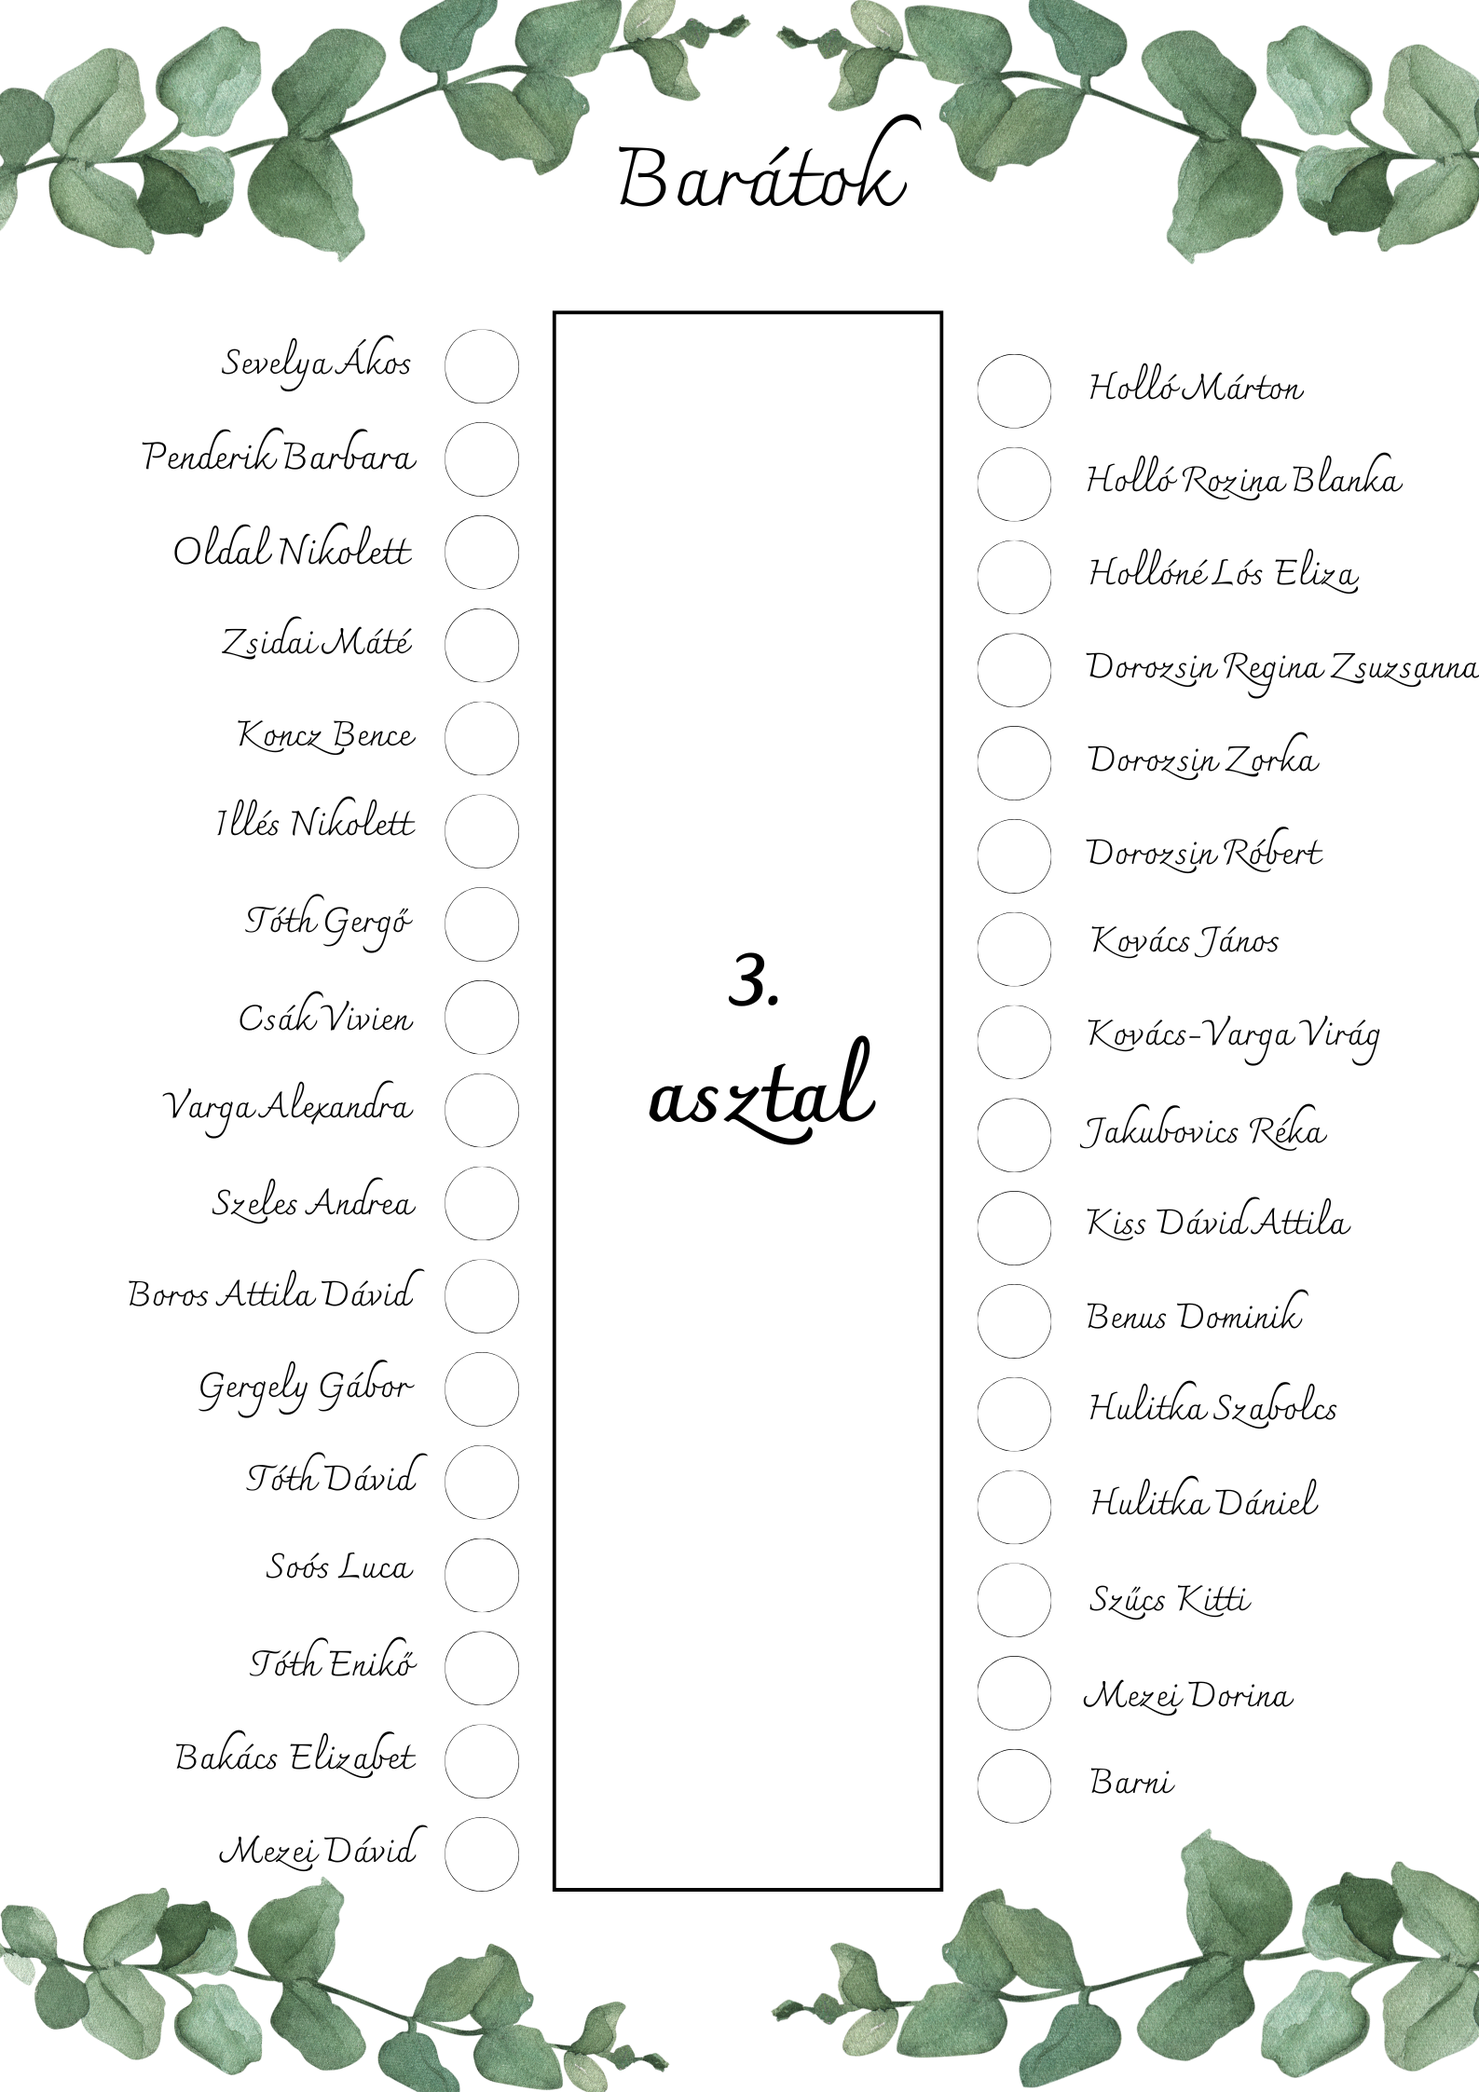
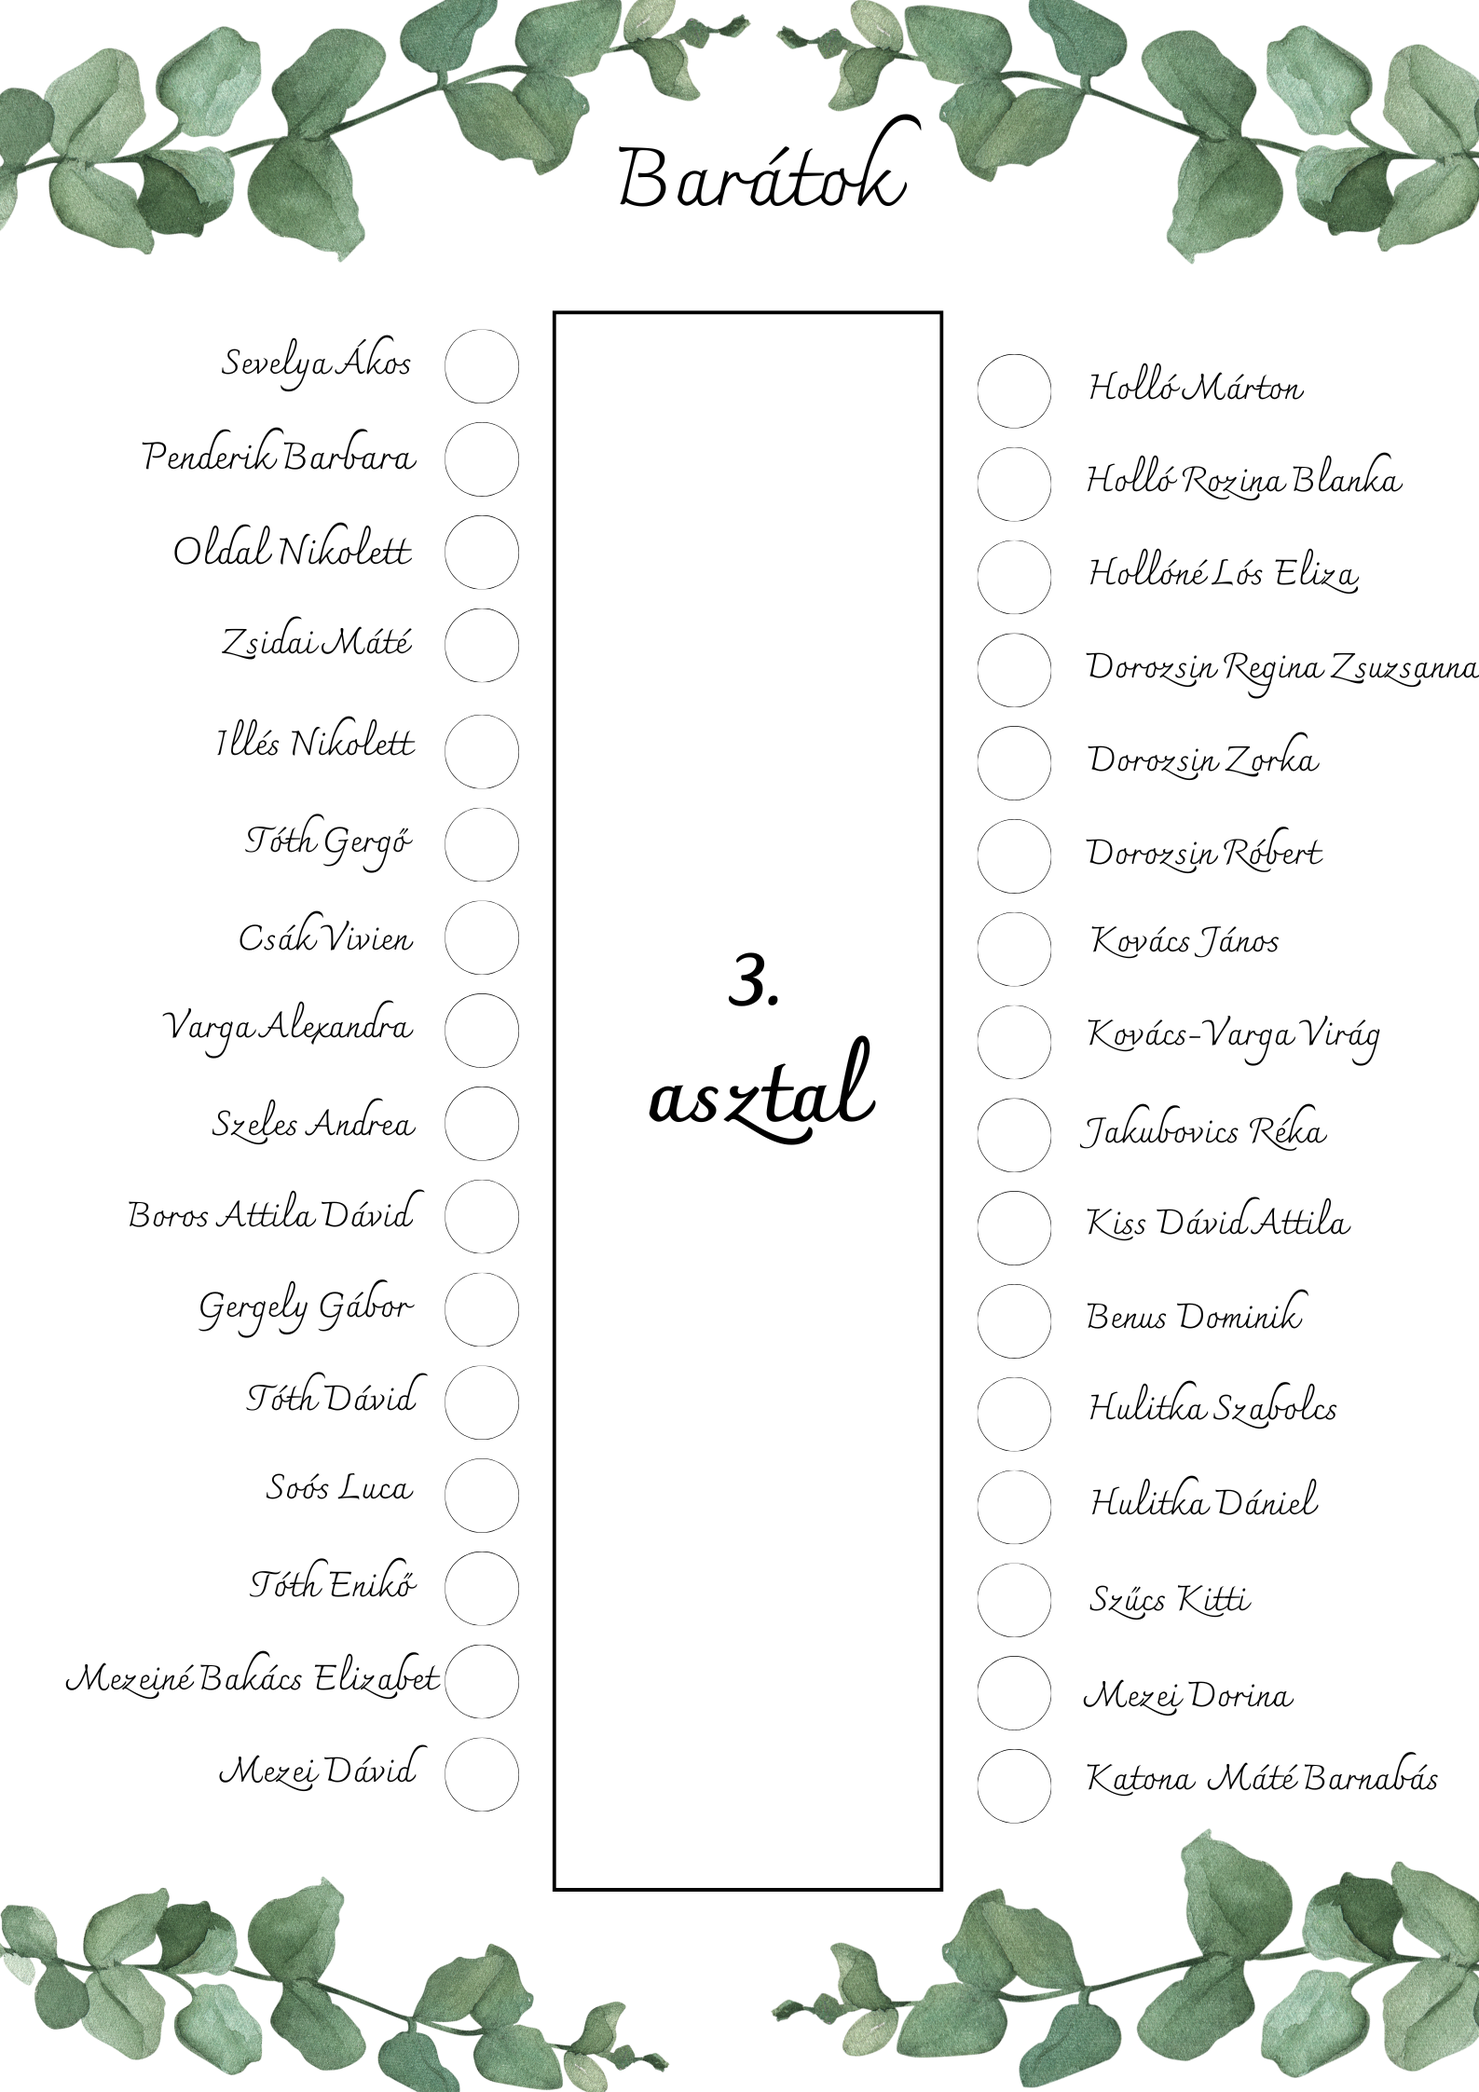
javítás

diff --git a/script.js b/script.js
@@ -507,20 +507,20 @@ let people = [
     {seatNo: 10, Name: "Sőregi Angéla",                 table: "groom"},
     {seatNo: 11, Name: "Zenész",                        table: "groom"},
     {seatNo: 12, Name: "Zenész",                        table: "groom"},
-    {seatNo: 13, Name: "Torákné Kovács Krisztina",      table: "groom"},
-    {seatNo: 14, Name: "Torák Vencel Lőrinc",           table: "groom"},
-    {seatNo: 15, Name: "Torák Lőrinc",                  table: "groom"},
-    {seatNo: 16, Name: "Torákné Gyurcsik Ildikó",       table: "groom"},
-    {seatNo: 17, Name: "Torák Pál",                     table: "groom"},
-    {seatNo: 18, Name: "Mezei Krisztián",               table: "groom"},
-    {seatNo: 19, Name: "Mezei Krisztiánné",             table: "groom"},
-    {seatNo: 20, Name: "Tóthné Kovács Noémi",           table: "groom"},
-    {seatNo: 21, Name: "Tóth József",                   table: "groom"},
-    {seatNo: 22, Name: "Vékony Csaba",                  table: "groom"},
-    {seatNo: 23, Name: "Vékonyné Gecse Mariann",        table: "groom"},
-    {seatNo: 24, Name: "Vékony Kiara",                  table: "groom"},
-    {seatNo: 25, Name: "Hemző László vőfély",           table: "groom"},
-    {seatNo: 26, Name: "Áron atya",                     table: "groom"},
+    {seatNo: 13, Name: "Áron atya",                     table: "groom"},
+    {seatNo: 14, Name: "Torákné Kovács Krisztina",      table: "groom"},
+    {seatNo: 15, Name: "Torák Vencel Lőrinc",           table: "groom"},
+    {seatNo: 16, Name: "Torák Lőrinc",                  table: "groom"},
+    {seatNo: 17, Name: "Torákné Gyurcsik Ildikó",       table: "groom"},
+    {seatNo: 18, Name: "Torák Pál",                     table: "groom"},
+    {seatNo: 19, Name: "Mezei Krisztián",               table: "groom"},
+    {seatNo: 20, Name: "Mezei Krisztiánné",             table: "groom"},
+    {seatNo: 21, Name: "Tóthné Kovács Noémi",           table: "groom"},
+    {seatNo: 22, Name: "Tóth József",                   table: "groom"},
+    {seatNo: 23, Name: "Vékony Csaba",                  table: "groom"},
+    {seatNo: 24, Name: "Vékony Gecse Mariann",          table: "groom"},
+    {seatNo: 25, Name: "Vékony Kiara",                  table: "groom"},
+    {seatNo: 26, Name: "Hemző László vőfély",           table: "groom"},
     {seatNo: 27, Name: "Keresztapa",                    table: "bride"},
     {seatNo: 28, Name: "Keresztanya",                   table: "bride"},
     {seatNo: 29, Name: "Verebélyiné Gáspár Zita",       table: "bride"},
@@ -533,52 +533,53 @@ let people = [
     {seatNo: 36, Name: "Palánki Benedek",               table: "bride"},
     {seatNo: 37, Name: "Palánki Gréta",                 table: "bride"},
     {seatNo: 38, Name: "Palánki Zsoltné",               table: "bride"},
-    {seatNo: 39, Name: "Verebélyiné Illés Beáta",       table: "bride"},
-    {seatNo: 40, Name: "Verebélyi Tamás",               table: "bride"},
-    {seatNo: 41, Name: "Verebélyi Botond",              table: "bride"},
-    {seatNo: 42, Name: "Illés András",                  table: "bride"},
-    {seatNo: 43, Name: "Illés Roland",                  table: "bride"},
-    {seatNo: 44, Name: "Illésné Tajti Tímea",           table: "bride"},
-    {seatNo: 45, Name: "Palánki Gáborné",               table: "bride"},
-    {seatNo: 46, Name: "Palánki Edina",                 table: "bride"},
-    {seatNo: 47, Name: "Palánki Petra",                 table: "bride"},
-    {seatNo: 48, Name: "Palánki Gábor",                 table: "bride"},
-    {seatNo: 49, Name: "Palánki Viktorné",              table: "bride"},
-    {seatNo: 50, Name: "Mucsina Józsefné",              table: "bride"},
-    {seatNo: 51, Name: "Mucsina Gabriella",             table: "bride"},
-    {seatNo: 52, Name: "Sevelya Ákos",                  table: "friends"},
-    {seatNo: 53, Name: "Penderik Barbara",              table: "friends"},
-    {seatNo: 54, Name: "Oldal Nikolett",                table: "friends"},
-    {seatNo: 55, Name: "Zsidai Máté",                   table: "friends"},
-    {seatNo: 56, Name: "Koncz Bence",                   table: "friends"},
-    {seatNo: 57, Name: "Illés Nikolett",                table: "friends"},
-    {seatNo: 58, Name: "Tóth Gergő",                    table: "friends"},
-    {seatNo: 59, Name: "Csák Vivien",                   table: "friends"},
-    {seatNo: 60, Name: "Varga Alexandra",               table: "friends"},
-    {seatNo: 61, Name: "Szeles Andrea",                 table: "friends"},
-    {seatNo: 62, Name: "Boros Attila Dávid",            table: "friends"},
-    {seatNo: 63, Name: "Gergely Gábor",                 table: "friends"},
-    {seatNo: 64, Name: "Tóth Dávid",                    table: "friends"},
-    {seatNo: 65, Name: "Soós Luca",                     table: "friends"},
-    {seatNo: 66, Name: "Tóth Enikő",                    table: "friends"},
-    {seatNo: 67, Name: "Mezei Dávid",                   table: "friends"},
-    {seatNo: 68, Name: "Lizi",                          table: "friends"},
-    {seatNo: 69, Name: "Holló Márton",                  table: "friends"},
-    {seatNo: 70, Name: "Holló Rozina Blanka",           table: "friends"},
-    {seatNo: 71, Name: "Hollóné Lós Eliza",             table: "friends"},
-    {seatNo: 72, Name: "Dorozsin Regina Zsuzsanna",     table: "friends"},
-    {seatNo: 73, Name: "Dorozsin Zorka",                table: "friends"},
-    {seatNo: 74, Name: "Dorozsin Róbert",               table: "friends"},
-    {seatNo: 75, Name: "Kovács János",                  table: "friends"},
-    {seatNo: 76, Name: "Kovács-Varga Virág",            table: "friends"},
-    {seatNo: 77, Name: "Jakubovics Réka",               table: "friends"},
-    {seatNo: 78, Name: "Kiss Dávid Attila",             table: "friends"},
-    {seatNo: 79, Name: "Benus Dominik",                 table: "friends"},
-    {seatNo: 80, Name: "Hulitka Szabolcs",              table: "friends"},
-    {seatNo: 81, Name: "Hulitka Dániel",                table: "friends"},
-    {seatNo: 82, Name: "Szűcs Kitti",                   table: "friends"},
-    {seatNo: 83, Name: "Mezei Dorina",                  table: "friends"},
-    {seatNo: 84, Name: "Barni",                         table: "friends"}
+    {seatNo: 39, Name: "Fotós",                         table: "bride"},
+    {seatNo: 40, Name: "Videós",                        table: "bride"},
+    {seatNo: 41, Name: "Verebélyiné Illés Beáta",       table: "bride"},
+    {seatNo: 42, Name: "Verebélyi Tamás",               table: "bride"},
+    {seatNo: 43, Name: "Verebélyi Botond",              table: "bride"},
+    {seatNo: 44, Name: "Illés András",                  table: "bride"},
+    {seatNo: 45, Name: "Illés Roland",                  table: "bride"},
+    {seatNo: 46, Name: "Illésné Tajti Tímea",           table: "bride"},
+    {seatNo: 47, Name: "Palánkiné Kiss Veronika",       table: "bride"},
+    {seatNo: 48, Name: "Palánki Edina",                 table: "bride"},
+    {seatNo: 49, Name: "Palánki Petra",                 table: "bride"},
+    {seatNo: 50, Name: "Palánki Gábor",                 table: "bride"},
+    {seatNo: 51, Name: "Palánki Viktorné",              table: "bride"},
+    {seatNo: 52, Name: "Mucsina Józsefné",              table: "bride"},
+    {seatNo: 53, Name: "Mucsina Gabriella",             table: "bride"},
+    {seatNo: 54, Name: "Sevelya Ákos",                  table: "friends"},
+    {seatNo: 55, Name: "Penderik Barbara",              table: "friends"},
+    {seatNo: 56, Name: "Oldal Nikolett",                table: "friends"},
+    {seatNo: 57, Name: "Zsidai Máté",                   table: "friends"},
+    {seatNo: 58, Name: "Illés Nikolett",                table: "friends"},
+    {seatNo: 59, Name: "Tóth Gergő",                    table: "friends"},
+    {seatNo: 60, Name: "Csák Vivien",                   table: "friends"},
+    {seatNo: 61, Name: "Varga Alexandra",               table: "friends"},
+    {seatNo: 62, Name: "Szeles Andrea",                 table: "friends"},
+    {seatNo: 63, Name: "Boros Attila Dávid",            table: "friends"},
+    {seatNo: 64, Name: "Gergely Gábor",                 table: "friends"},
+    {seatNo: 65, Name: "Tóth Dávid",                    table: "friends"},
+    {seatNo: 66, Name: "Soós Luca",                     table: "friends"},
+    {seatNo: 67, Name: "Tóth Enikő",                    table: "friends"},
+    {seatNo: 68, Name: "Mezeiné Bakács Elizabet",       table: "friends"},
+    {seatNo: 69, Name: "Mezei Dávid",                   table: "friends"},
+    {seatNo: 70, Name: "Holló Márton",                  table: "friends"},
+    {seatNo: 71, Name: "Holló Rozina Blanka",           table: "friends"},
+    {seatNo: 72, Name: "Hollóné Lós Eliza",             table: "friends"},
+    {seatNo: 73, Name: "Dorozsin Regina Zsuzsanna",     table: "friends"},
+    {seatNo: 74, Name: "Dorozsin Zorka",                table: "friends"},
+    {seatNo: 75, Name: "Dorozsin Róbert",               table: "friends"},
+    {seatNo: 76, Name: "Kovács János",                  table: "friends"},
+    {seatNo: 77, Name: "Kovács-Varga Virág",            table: "friends"},
+    {seatNo: 78, Name: "Jakubovics Réka",               table: "friends"},
+    {seatNo: 79, Name: "Kiss Dávid Attila",             table: "friends"},
+    {seatNo: 80, Name: "Benus Dominik",                 table: "friends"},
+    {seatNo: 81, Name: "Hulitka Szabolcs",              table: "friends"},
+    {seatNo: 82, Name: "Hulitka Dániel",                table: "friends"},
+    {seatNo: 83, Name: "Szűcs Kitti",                   table: "friends"},
+    {seatNo: 84, Name: "Mezei Dorina",                  table: "friends"},
+    {seatNo: 85, Name: "Katona Máté Barnabás",          table: "friends"}
 ];
 
 function displayNamesDiv(who){
@@ -824,20 +825,20 @@ function displayNames() {
 
     // Nevek feltöltése Vőlegény családjának asztalához (különböző oldalak)
     if (groomDivs.length === 2) {
-        fillDivWithNames(groomDivs[0], groomNames.slice(0, 12), "right"); // Első oldal
-        fillDivWithNames(groomDivs[1], groomNames.slice(12), "left");    // Második oldal
+        fillDivWithNames(groomDivs[0], groomNames.slice(0, 13), "right"); // Első oldal
+        fillDivWithNames(groomDivs[1], groomNames.slice(13), "left");    // Második oldal
     }
 
     // Nevek feltöltése Menyasszony családjának asztalához
     if (brideDivs.length === 2) {
-        fillDivWithNames(brideDivs[0], brideNames.slice(0, 12), "right"); // Első oldal
-        fillDivWithNames(brideDivs[1], brideNames.slice(12), "left");    // Második oldal
+        fillDivWithNames(brideDivs[0], brideNames.slice(0, 14), "right"); // Első oldal
+        fillDivWithNames(brideDivs[1], brideNames.slice(14), "left");    // Második oldal
     }
 
     // Nevek feltöltése Fiatalok asztalához
     if (friendsDivs.length === 2) {
-        fillDivWithNames(friendsDivs[0], friendsNames.slice(0, 17), "right"); // Első oldal
-        fillDivWithNames(friendsDivs[1], friendsNames.slice(17), "left");    // Második oldal
+        fillDivWithNames(friendsDivs[0], friendsNames.slice(0, 16), "right"); // Első oldal
+        fillDivWithNames(friendsDivs[1], friendsNames.slice(16), "left");    // Második oldal
     }
 }
 

diff --git a/index.html b/index.html
@@ -79,7 +79,7 @@
                 <img src="assets/images/szentkutTemplom.jpg" alt="" class="location-image">
             </div>
             <h3 class="descLocation">Templomi szertartás 16:00-kor</h3>
-            <p>Mátraverebély, Dózsa György út 63, 3077</p>
+            <p>Mátraverebély-Szentkút 14, 3077</p>
             <a href="https://www.google.com/maps/place/Nagyboldogasszony-bazilika/@48.0382091,19.5299615,10.92z/data=!4m6!3m5!1s0x47410703dea53ab5:0x803ac26a7b4fb7c6!8m2!3d48.000051!4d19.761423!16s%2Fg%2F1224br_3?hl=hu&entry=ttu" target="_blank" class="linkLoc">Útvonal</a>
         </div>
 
@@ -105,10 +105,10 @@
                         <div class="seat seat-10">10</div>
                         <div class="seat seat-11">11</div>
                         <div class="seat seat-12">12</div>
+                        <div class="seat seat-13">13</div>
                     </div>
                     <div class="table"></div>
                     <div class="seatRow">
-                        <div class="seat seat-13">13</div>
                         <div class="seat seat-14">14</div>
                         <div class="seat seat-15">15</div>
                         <div class="seat seat-16">16</div>
@@ -143,11 +143,11 @@
                         <div class="seat seat-36">36</div>
                         <div class="seat seat-37">37</div>
                         <div class="seat seat-38">38</div>
+                        <div class="seat seat-39">39</div>
+                        <div class="seat seat-40">40</div>
                     </div>
                     <div class="table"></div>
                     <div class="seatRow">
-                        <div class="seat seat-39">39</div>
-                        <div class="seat seat-40">40</div>
                         <div class="seat seat-41">41</div>
                         <div class="seat seat-42">42</div>
                         <div class="seat seat-43">43</div>
@@ -159,6 +159,8 @@
                         <div class="seat seat-49">49</div>
                         <div class="seat seat-50">50</div>
                         <div class="seat seat-51">51</div>
+                        <div class="seat seat-52">52</div>
+                        <div class="seat seat-53">53</div>
                     </div>
                     <div class="forBride"></div>
                 </div>
@@ -168,8 +170,6 @@
                 <div class="tableAndSeat">
                     <div class="forFriends"></div>
                     <div class="seatRow">
-                        <div class="seat seat-52">52</div>
-                        <div class="seat seat-53">53</div>
                         <div class="seat seat-54">54</div>
                         <div class="seat seat-55">55</div>
                         <div class="seat seat-56">56</div>
@@ -185,10 +185,10 @@
                         <div class="seat seat-66">66</div>
                         <div class="seat seat-67">67</div>
                         <div class="seat seat-68">68</div>
+                        <div class="seat seat-69">69</div>
                     </div>
                     <div class="table"></div>
                     <div class="seatRow">
-                        <div class="seat seat-69">69</div>
                         <div class="seat seat-70">70</div>
                         <div class="seat seat-71">71</div>
                         <div class="seat seat-72">72</div>
@@ -204,6 +204,7 @@
                         <div class="seat seat-82">82</div>
                         <div class="seat seat-83">83</div>
                         <div class="seat seat-84">84</div>
+                        <div class="seat seat-85">85</div>
                     </div>
                     <div class="forFriends"></div>
                 </div>
